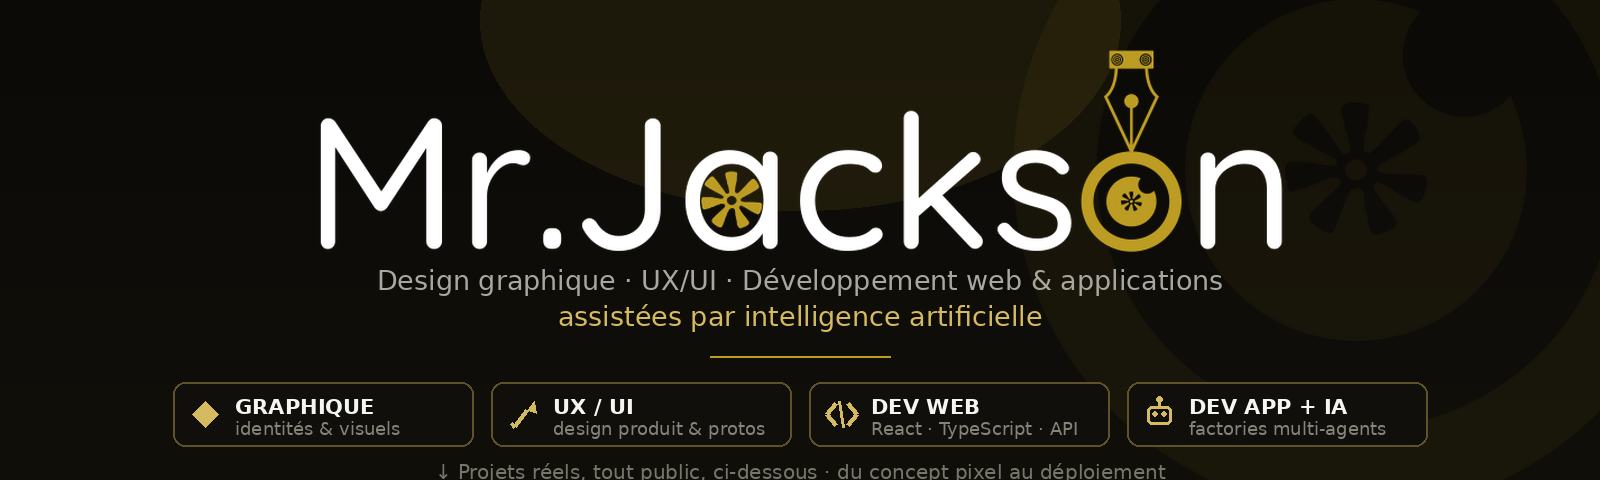
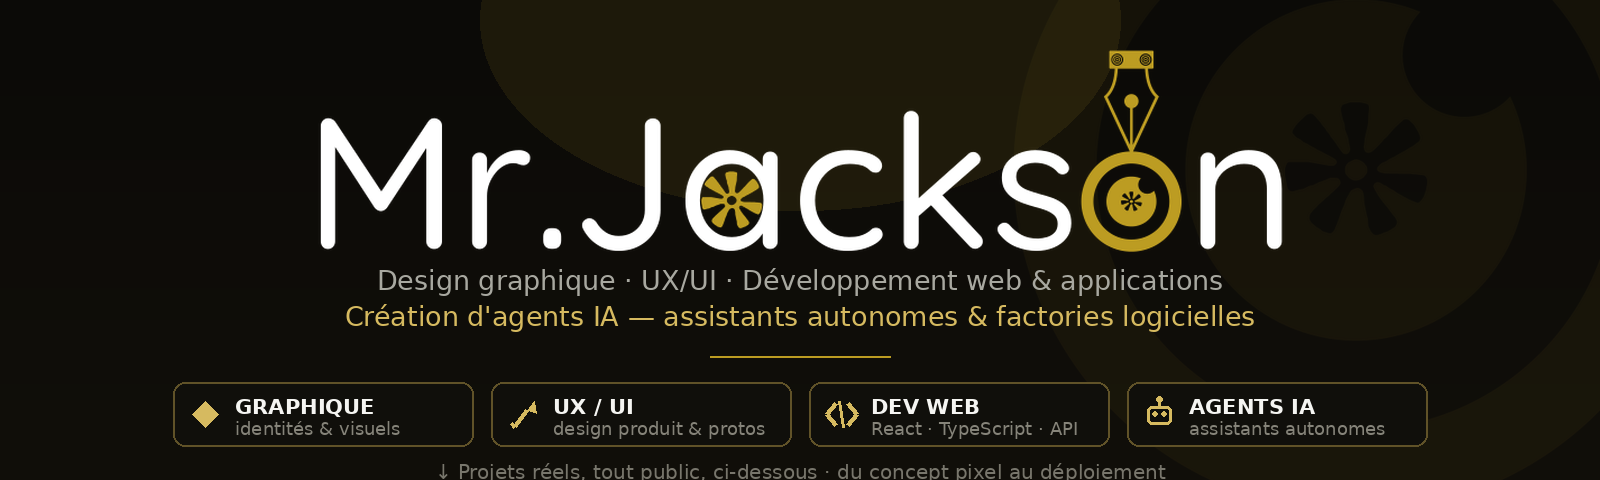
feat(profile): AI agent building is now a first-class domain
- banner: 'AGENTS IA' tile + gold subtitle line
- intro bilingual, domains table (agents row separated from app dev),
  ARIA described as a true learning agent with memory/rules/reflection

Changed region(s): [[0.2188, 0.625, 0.7812, 0.6875], [0.7188, 0.8125, 0.875, 0.9062]]

diff --git a/README.md b/README.md
@@ -4,14 +4,16 @@
 
 # Salut, moi c'est Mr Jackson 👋
 
-**Designer graphique & UX/UI devenu développeur** — je conçois les produits
-*et* je les construis. Ma particularité : je développe **assisté par
-l'intelligence artificielle**, avec des chaînes multi-agents que j'ai
-moi-même bâties pour passer du pixel au produit déployé, vite et bien.
+**Designer graphique & UX/UI devenu développeur — et créateur d'agents
+IA.** Je conçois les produits *et* je les construis. Ma particularité :
+je développe **assisté par l'intelligence artificielle**, avec des
+**agents que je crée moi-même** (assistants autonomes, usines logicielles
+multi-agents) pour passer du pixel au produit déployé, vite et bien.
 
-> 🇬🇧 *Graphic & UX/UI designer turned developer — I design the product,
-> then build it, with AI-assisted engineering pipelines I put together
-> myself: from pixel to deployed product.*
+> 🇬🇧 *Graphic & UX/UI designer turned developer — and AI agent
+> builder. I design the product, then build it, with agents I create
+> myself (autonomous assistants, multi-agent software factories):
+> from pixel to deployed product.*
 
 ![GitHub followers](https://img.shields.io/github/followers/Mr-Jacks0n?style=flat&logo=github&label=abonn%C3%A9s&color=bc9c22) ![Repos public](https://img.shields.io/badge/projects%20publics-5-bc9c22) ![Focus](https://img.shields.io/badge/m%C3%A9thode-IA%20assistance%20%2B%20true%20crafting-d6ba60)
 
@@ -24,7 +26,8 @@ moi-même bâties pour passer du pixel au produit déployé, vite et bien.
 | 🎨 | **Design graphique** | Identités visuelles, affiches, matériaux de communication, vectoriel & print-ready |
 | ✏ | **UX / UI design** | Maquettes, design systems, prototypes cliquables, accessibilité (WCAG AAA), dark & light modes |
 | 🌐 | **Dev web** | React 19 + TypeScript, FastAPI, PostgreSQL, Docker, CI/CD — front et back, aucun pont à moitié fini |
-| 🤖 | **Dev d'applications assisté par IA** | Apps desktop (Electron) & mobile (Jetpack Compose) construites par une usine logicielle multi-agents que j'avise, pilote et audit |
+| 🤖 | **Création d'agents IA** | Assistants autonomes & apprenants (mémoire, règles, réflexion), orchestration multi-agents (architecte → dev → QA → audit → release), garde-fous et évaluation humaine — pas un LLM collé sur un chat, des agents *industrialisés* |
+| 📱 | **Applications desktop & mobile** | Electron + Jetpack Compose, construites par ces pipelines d'agents — chaque feature passe un veto d'audit avant publication |
 
 ## 🚀 Projets en vitrine (réels, tout public)
 
@@ -33,7 +36,7 @@ moi-même bâties pour passer du pixel au produit déployé, vite et bien.
 | 📡 [**Gestion-Wi-Fi**](https://github.com/Mr-Jacks0n/Gestion-Wi-Fi) — *Adven's Manager* | Vente & gestion de tickets Wi-Fi : caisse, Wave, FIFO vendeurs, audit immuable, PWA smartphone | ✅ | React TS + FastAPI | [🎮 démo en ligne](https://mr-jacks0n.github.io/Gestion-Wi-Fi/) |
 | ⚡ [**LanceFer**](https://github.com/Mr-Jacks0n/LanceFer) — *LanceDrop* | Transfert de fichiers Android ↔ PC sans cloud, 51–70 Mo/s mesurés, reprise réseau, appairage QR | ✅ | Node + Electron + Compose | [💾 releases](https://github.com/Mr-Jacks0n/LanceFer/releases) |
 | 🏋 [**ivoire-gym-gestion**](https://github.com/Mr-Jacks0n/ivoire-gym-gestion) | Gestion d'un club fitness à Bouaké : QR HMAC, finances SYSCOHADA, RH & messagerie | ✅ | React 19 + Express | [🌐 site](https://ivoire-gym-gestion.onrender.com) |
-| 🧠 [**IA**](https://github.com/Mr-Jacks0n/IA) — *ARIA* | Assistant personnel apprenant : règles, mémoire, réflexion, GUI tkinter | ✅ | Python | [⬇ repo](https://github.com/Mr-Jacks0n/IA) |
+| 🧠 [**IA**](https://github.com/Mr-Jacks0n/IA) — *ARIA* | Agent IA personnel **apprenant** : mémoire, règles, réflexion, GUI tkinter — mon premier assistant autonome | ✅ | Python | [⬇ repo](https://github.com/Mr-Jacks0n/IA) |
 | 📉 [**simulation-maintenance-predictive**](https://github.com/Mr-Jacks0n/simulation-maintenance-predictive) | Maintenance prédictive hybride validée sur dataset NASA C-MAPSS (AUC 0.984) | ✅ | Python | [⬇ repo](https://github.com/Mr-Jacks0n/simulation-maintenance-predictive) |
 
 > Chacun de ces projets a une vraie CI (tests automatisés, dont plusieurs
@@ -57,8 +60,8 @@ moi-même bâties pour passer du pixel au produit déployé, vite et bien.
 
 *(design : Figma, suites Adobe ; dev front : React/TS, Compose ; back :
 FastAPI, Express, PostgreSQL, Redis, Docker ; desktop : Electron ;
-mobile : Android Jetpack Compose ; IA : pipelines multi-agents, éval
-humaine systématique.)*
+mobile : Android Jetpack Compose ; agents IA : orchestration
+multi-agents, mémoire apprenante, QA adversariale, évaluation humaine.)
 
 ## 📈 Stats GitHub
 
@@ -70,7 +73,7 @@ humaine systématique.)*
   </picture>
   <picture>
     <source media="(prefers-color-scheme: dark)"
-      srcset="https://github-readme-stats.vercel.app/api/top-langs/?username=Mr-Jacks0n&layout=compact&hide_border=true&bg_color=00000000&title_color=34d399&text_color=92b5a5&langs_count=8&exclude_repo=Ivoire-Gym-ges,mon-porfolio" />
+      srcset="https://github-readme-stats.vercel.app/api/top-langs/?username=Mr-Jacks0n&layout=compact&hide_border=true&bg_color=00000000&title_color=bc9c22&text_color=92b5a5&langs_count=8&exclude_repo=Ivoire-Gym-ges,mon-porfolio" />
     <img height="165" src="https://github-readme-stats.vercel.app/api/top-langs/?username=Mr-Jacks0n&layout=compact&hide_border=true&title_color=059669&text_color=333&langs_count=8&exclude_repo=Ivoire-Gym-ges,mon-porfolio" />
   </picture>
 </p>
